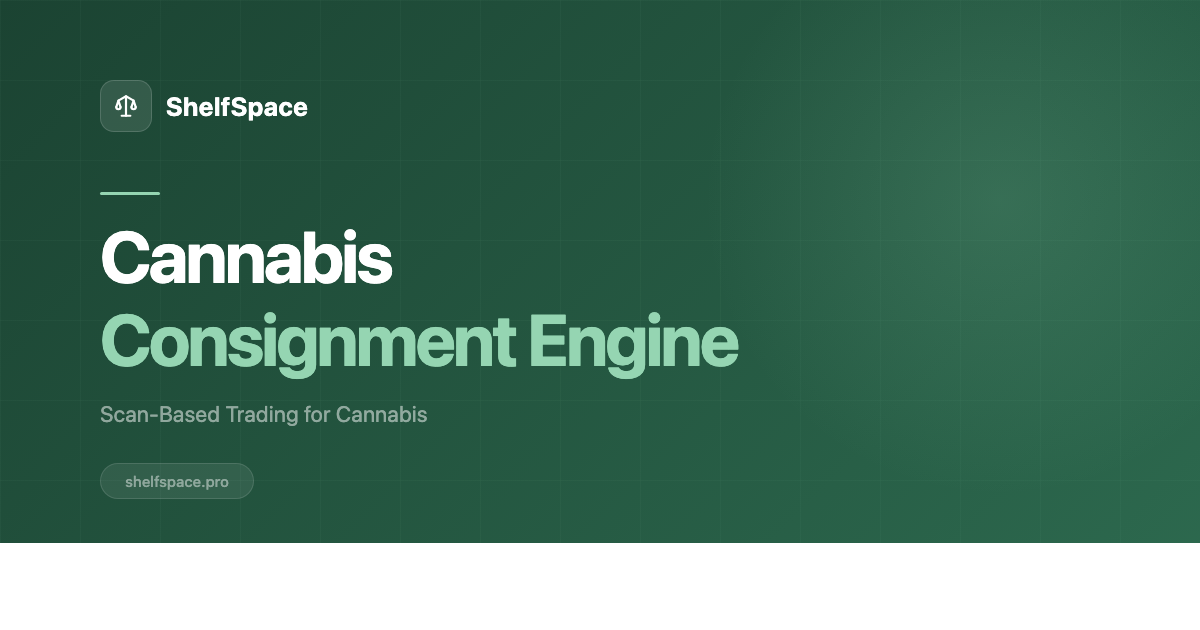
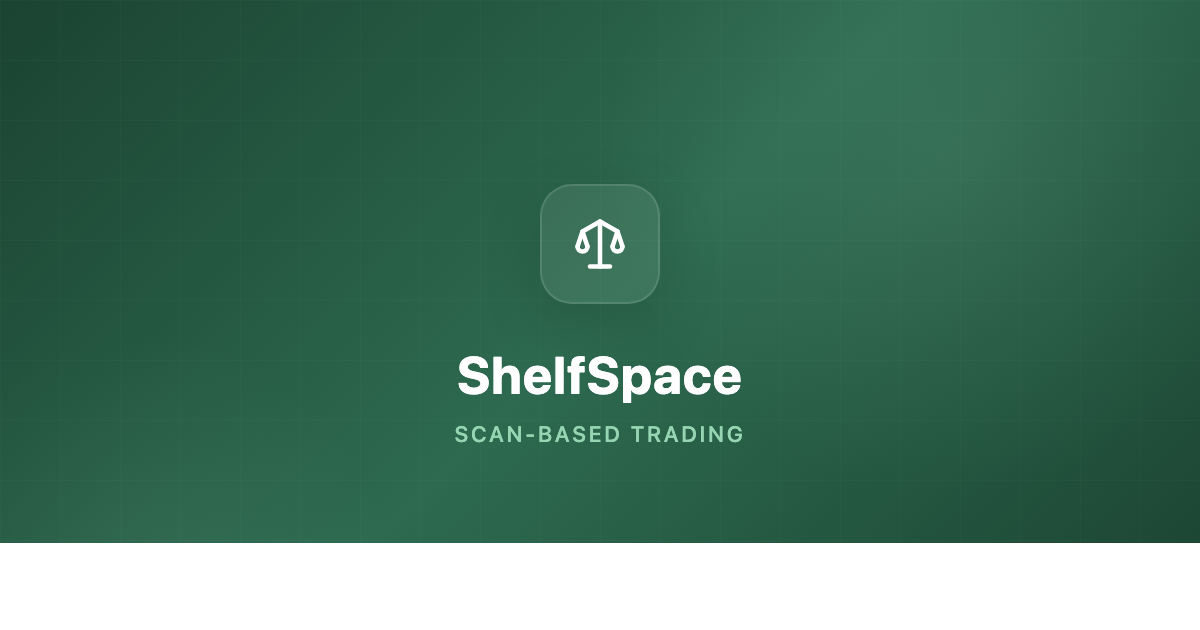
feat: redesign OG image as branded card that complements iMessage preview
Centered logo + ShelfSpace + "Scan-Based Trading" on green gradient.
Image doesn't duplicate the og:title text, so the full preview reads
naturally: branded image on top, title + domain below.

diff --git a/features.html b/features.html
@@ -10,9 +10,11 @@
 <meta property="og:url" content="https://shelfspace.pro/features">
 <meta property="og:title" content="Features — ShelfSpace">
 <meta property="og:description" content="Explore the ShelfSpace platform — dedicated portals for retailers and vendors, automated weekly settlements, precision financial math, and tools built for cannabis consignment at scale.">
-<meta name="twitter:card" content="summary">
+<meta property="og:image" content="https://shelfspace.pro/og-image.png">
+<meta name="twitter:card" content="summary_large_image">
 <meta name="twitter:title" content="Features — ShelfSpace">
 <meta name="twitter:description" content="Explore the ShelfSpace platform — dedicated portals for retailers and vendors, automated weekly settlements, precision financial math, and tools built for cannabis consignment at scale.">
+<meta name="twitter:image" content="https://shelfspace.pro/og-image.png">
 <link rel="icon" type="image/svg+xml" href="/favicon.svg">
 <link rel="preconnect" href="https://fonts.googleapis.com">
 <link rel="preconnect" href="https://fonts.gstatic.com" crossorigin>

diff --git a/pricing.html b/pricing.html
@@ -10,9 +10,11 @@
 <meta property="og:url" content="https://shelfspace.pro/pricing">
 <meta property="og:title" content="Pricing — ShelfSpace">
 <meta property="og:description" content="Join the ShelfSpace pilot program for free. Get started with scan-based trading — automated settlements, weekly vendor payments, and real-time inventory data.">
-<meta name="twitter:card" content="summary">
+<meta property="og:image" content="https://shelfspace.pro/og-image.png">
+<meta name="twitter:card" content="summary_large_image">
 <meta name="twitter:title" content="Pricing — ShelfSpace">
 <meta name="twitter:description" content="Join the ShelfSpace pilot program for free. Get started with scan-based trading — automated settlements, weekly vendor payments, and real-time inventory data.">
+<meta name="twitter:image" content="https://shelfspace.pro/og-image.png">
 <link rel="icon" type="image/svg+xml" href="/favicon.svg">
 <link rel="preconnect" href="https://fonts.googleapis.com">
 <link rel="preconnect" href="https://fonts.gstatic.com" crossorigin>

diff --git a/about.html b/about.html
@@ -10,9 +10,11 @@
 <meta property="og:url" content="https://shelfspace.pro/about">
 <meta property="og:title" content="About — ShelfSpace">
 <meta property="og:description" content="ShelfSpace was founded by Chris Mitchem, a 10+ year cannabis industry veteran who scaled a multi-state retail operation and built the tools he wished existed.">
-<meta name="twitter:card" content="summary">
+<meta property="og:image" content="https://shelfspace.pro/og-image.png">
+<meta name="twitter:card" content="summary_large_image">
 <meta name="twitter:title" content="About — ShelfSpace">
 <meta name="twitter:description" content="ShelfSpace was founded by Chris Mitchem, a 10+ year cannabis industry veteran who scaled a multi-state retail operation and built the tools he wished existed.">
+<meta name="twitter:image" content="https://shelfspace.pro/og-image.png">
 <link rel="icon" type="image/svg+xml" href="/favicon.svg">
 <link rel="preconnect" href="https://fonts.googleapis.com">
 <link rel="preconnect" href="https://fonts.gstatic.com" crossorigin>

diff --git a/how-it-works.html b/how-it-works.html
@@ -10,9 +10,11 @@
 <meta property="og:url" content="https://shelfspace.pro/how-it-works">
 <meta property="og:title" content="How It Works — ShelfSpace">
 <meta property="og:description" content="See how ShelfSpace's Scan-Based Trading system works — from POS integration and contracts to automated weekly settlements and vendor payments.">
-<meta name="twitter:card" content="summary">
+<meta property="og:image" content="https://shelfspace.pro/og-image.png">
+<meta name="twitter:card" content="summary_large_image">
 <meta name="twitter:title" content="How It Works — ShelfSpace">
 <meta name="twitter:description" content="See how ShelfSpace's Scan-Based Trading system works — from POS integration and contracts to automated weekly settlements and vendor payments.">
+<meta name="twitter:image" content="https://shelfspace.pro/og-image.png">
 <link rel="icon" type="image/svg+xml" href="/favicon.svg">
 <link rel="preconnect" href="https://fonts.googleapis.com">
 <link rel="preconnect" href="https://fonts.gstatic.com" crossorigin>

diff --git a/contact.html b/contact.html
@@ -10,9 +10,11 @@
 <meta property="og:url" content="https://shelfspace.pro/contact">
 <meta property="og:title" content="Contact — ShelfSpace">
 <meta property="og:description" content="Get in touch with ShelfSpace. Schedule a call to learn how scan-based trading can eliminate upfront inventory costs for your cannabis business.">
-<meta name="twitter:card" content="summary">
+<meta property="og:image" content="https://shelfspace.pro/og-image.png">
+<meta name="twitter:card" content="summary_large_image">
 <meta name="twitter:title" content="Contact — ShelfSpace">
 <meta name="twitter:description" content="Get in touch with ShelfSpace. Schedule a call to learn how scan-based trading can eliminate upfront inventory costs for your cannabis business.">
+<meta name="twitter:image" content="https://shelfspace.pro/og-image.png">
 <link rel="icon" type="image/svg+xml" href="/favicon.svg">
 <link rel="preconnect" href="https://fonts.googleapis.com">
 <link rel="preconnect" href="https://fonts.gstatic.com" crossorigin>

diff --git a/index.html b/index.html
@@ -10,9 +10,11 @@
 <meta property="og:url" content="https://shelfspace.pro/">
 <meta property="og:title" content="ShelfSpace — Cannabis Consignment Engine">
 <meta property="og:description" content="Scan-based trading with automated weekly settlements, vendor payments, and real-time inventory tracking.">
-<meta name="twitter:card" content="summary">
+<meta property="og:image" content="https://shelfspace.pro/og-image.png">
+<meta name="twitter:card" content="summary_large_image">
 <meta name="twitter:title" content="ShelfSpace — Cannabis Consignment Engine">
 <meta name="twitter:description" content="Scan-based trading with automated weekly settlements, vendor payments, and real-time inventory tracking.">
+<meta name="twitter:image" content="https://shelfspace.pro/og-image.png">
 <link rel="icon" type="image/svg+xml" href="/favicon.svg">
 <link rel="preconnect" href="https://fonts.googleapis.com">
 <link rel="preconnect" href="https://fonts.gstatic.com" crossorigin>

diff --git a/terms.html b/terms.html
@@ -10,9 +10,11 @@
 <meta property="og:url" content="https://shelfspace.pro/terms">
 <meta property="og:title" content="Terms of Service — ShelfSpace">
 <meta property="og:description" content="ShelfSpace Terms of Service. Read the terms and conditions governing your use of the ShelfSpace platform.">
-<meta name="twitter:card" content="summary">
+<meta property="og:image" content="https://shelfspace.pro/og-image.png">
+<meta name="twitter:card" content="summary_large_image">
 <meta name="twitter:title" content="Terms of Service — ShelfSpace">
 <meta name="twitter:description" content="ShelfSpace Terms of Service. Read the terms and conditions governing your use of the ShelfSpace platform.">
+<meta name="twitter:image" content="https://shelfspace.pro/og-image.png">
 <link rel="icon" type="image/svg+xml" href="/favicon.svg">
 <link rel="preconnect" href="https://fonts.googleapis.com">
 <link rel="preconnect" href="https://fonts.gstatic.com" crossorigin>

diff --git a/privacy.html b/privacy.html
@@ -10,9 +10,11 @@
 <meta property="og:url" content="https://shelfspace.pro/privacy">
 <meta property="og:title" content="Privacy Policy — ShelfSpace">
 <meta property="og:description" content="ShelfSpace Privacy Policy. Learn how we collect, use, and protect your personal information.">
-<meta name="twitter:card" content="summary">
+<meta property="og:image" content="https://shelfspace.pro/og-image.png">
+<meta name="twitter:card" content="summary_large_image">
 <meta name="twitter:title" content="Privacy Policy — ShelfSpace">
 <meta name="twitter:description" content="ShelfSpace Privacy Policy. Learn how we collect, use, and protect your personal information.">
+<meta name="twitter:image" content="https://shelfspace.pro/og-image.png">
 <link rel="icon" type="image/svg+xml" href="/favicon.svg">
 <link rel="preconnect" href="https://fonts.googleapis.com">
 <link rel="preconnect" href="https://fonts.gstatic.com" crossorigin>

diff --git a/signup.html b/signup.html
@@ -10,9 +10,11 @@
 <meta property="og:url" content="https://shelfspace.pro/signup">
 <meta property="og:title" content="Sign Up — ShelfSpace">
 <meta property="og:description" content="Create your ShelfSpace account. Get started with scan-based trading for your cannabis business.">
-<meta name="twitter:card" content="summary">
+<meta property="og:image" content="https://shelfspace.pro/og-image.png">
+<meta name="twitter:card" content="summary_large_image">
 <meta name="twitter:title" content="Sign Up — ShelfSpace">
 <meta name="twitter:description" content="Create your ShelfSpace account. Get started with scan-based trading for your cannabis business.">
+<meta name="twitter:image" content="https://shelfspace.pro/og-image.png">
 <link rel="icon" type="image/svg+xml" href="/favicon.svg">
 <link rel="preconnect" href="https://fonts.googleapis.com">
 <link rel="preconnect" href="https://fonts.gstatic.com" crossorigin>
